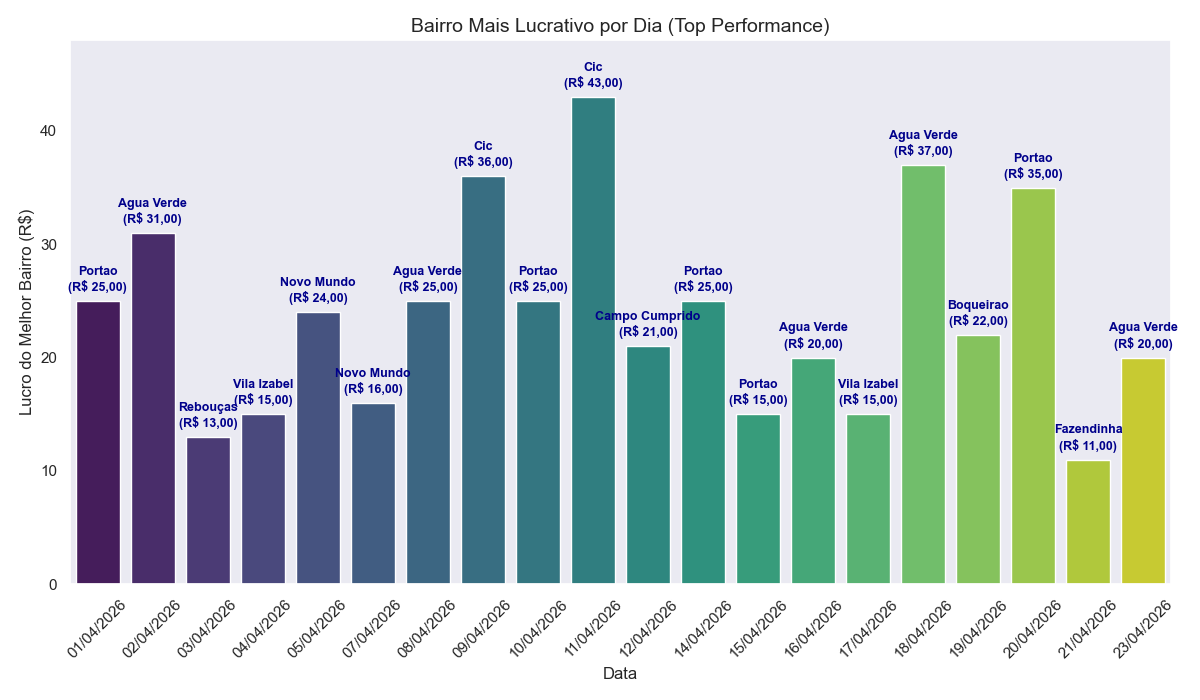
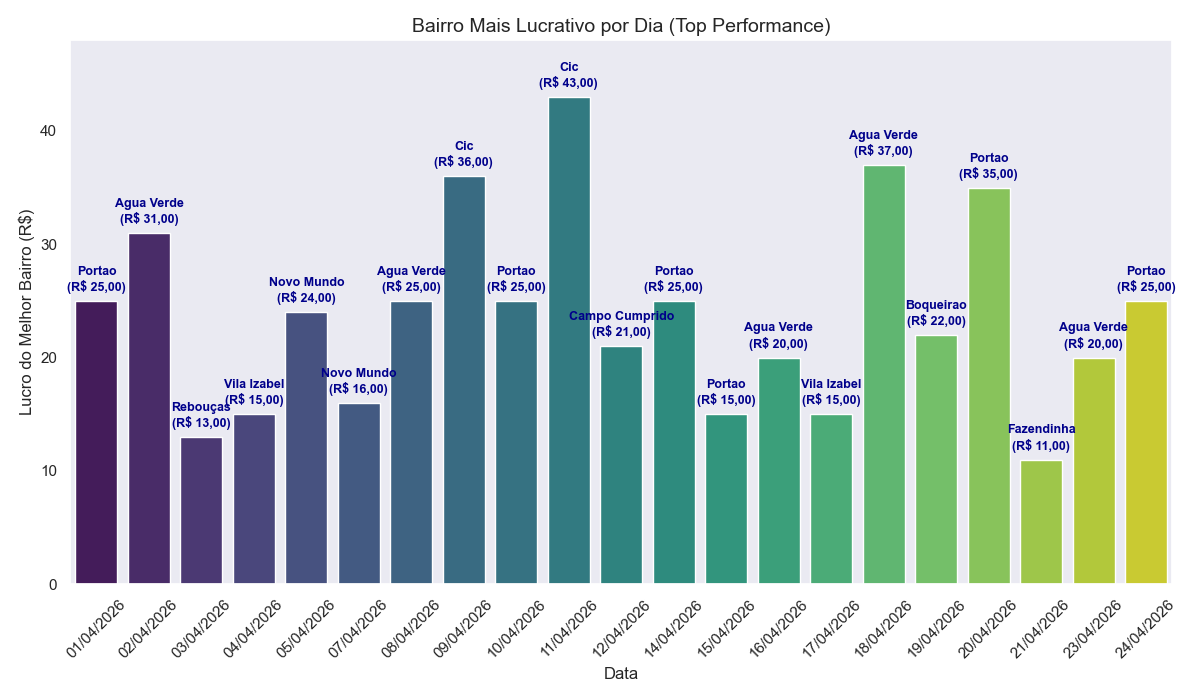
adicionando relatorio dia 24/04/2026

Changed region(s): [[0.0617, 0.09, 0.9867, 0.99], [0.3392, 0.03, 0.7092, 0.06]]

diff --git a/filtragem de relatorio de entregas.py b/filtragem de relatorio de entregas.py
@@ -6,10 +6,10 @@ import matplotlib.pyplot as plt #importando a biblioteca matplot para exibir rel
 import seaborn as sns #biblioteca que deixa os graficos mais bonitos
 
 try:
-    df = pd.read_csv('rota1.csv', sep=';')#lendo o arquivo csv e transformando em data frame
+    df = pd.read_csv('relatorio_abril.csv', sep=';')#lendo o arquivo csv e transformando em data frame
     print(df) #exibindo o data frame
 except FileNotFoundError: #erro de arquivo nao encontrado
-    print("Erro: O arquivo 'rota1.csv' não foi encontrado!")
+    print("Erro: O arquivo 'relatorio_abril.csv' não foi encontrado!")
     exit() # encerra o script
 except Exception as excecao: #erro de excecao
     print(f"Ocorreu um erro inesperado ao ler o arquivo: {excecao}")
@@ -92,7 +92,7 @@ with sqlite3.connect('logistica_pessoal.db') as conn:
 sns.set_theme(style="dark") #definindo o tema de fundo dos graficos
 total_entregas_bairro = df_top['quantidade_entregas'].sum() #soma das entregas no bairro a partir da variavel que recebeu os dados do Top do dia
 plt.figure(figsize=(12, 7)) #dimensoes do grafico que quero que tenha os dados coletados do top do dia
-barras = sns.barplot(x=df_top['data_entregas'], y=df_top['lucro_maximo'], palette="viridis") #variavel barras recebendo os dados da data de entrega e lucro maximo para o eixo x e y do grafico
+barras = sns.barplot(x=df_top['data_entregas'], y=df_top['lucro_maximo'], hue=df_top['data_entregas'],palette="viridis",legend=False) #variavel barras recebendo os dados da data de entrega e lucro maximo para o eixo x e y do grafico
 
 for barra, bairro, qtd in zip(barras.patches, df_top['bairro'], df_top['lucro_maximo']): #para cada barra, bairro e quantidade dentro do dicionario barras e de acordo com os dados do data frame, fazer:
     yvalor = barra.get_height() #o valor do eixo y sera o tamanho dos dados que foi pego da contagem de barra e tranformando em altura no grafico
